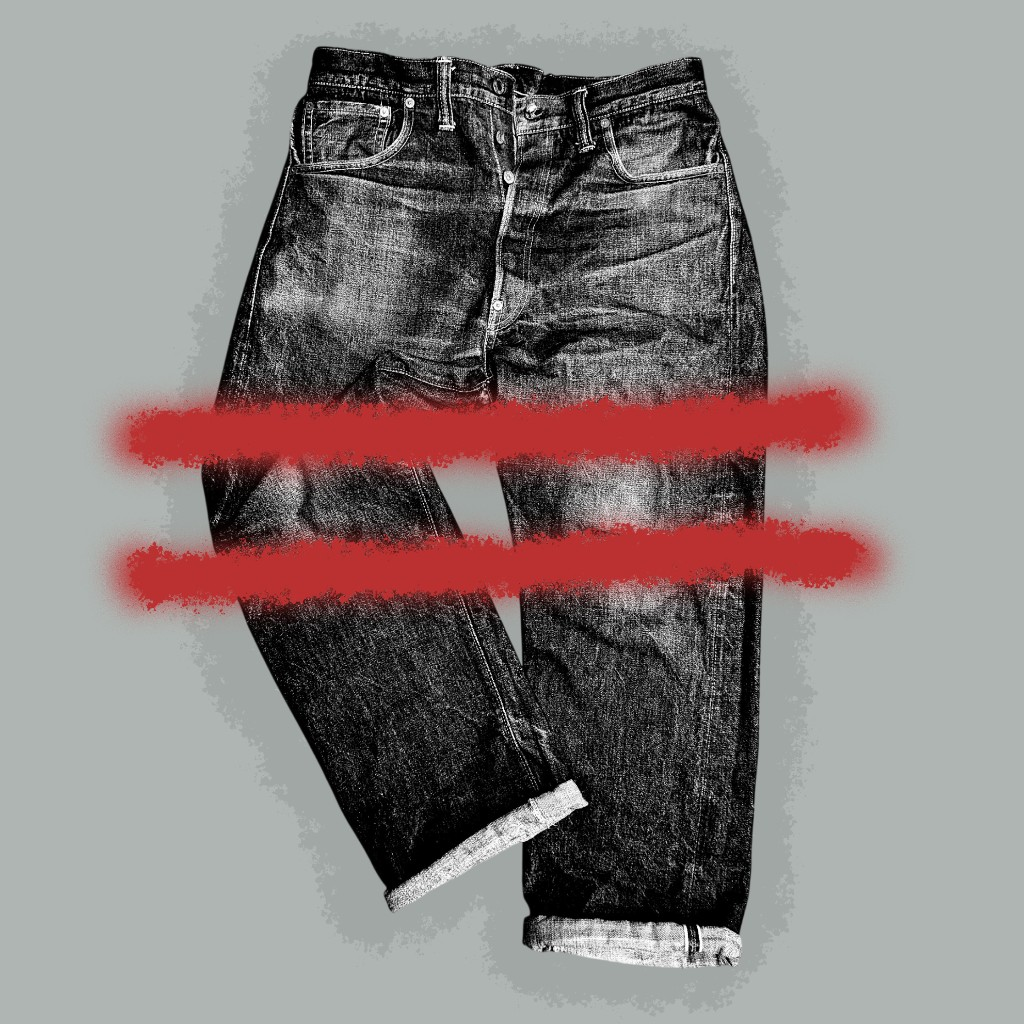
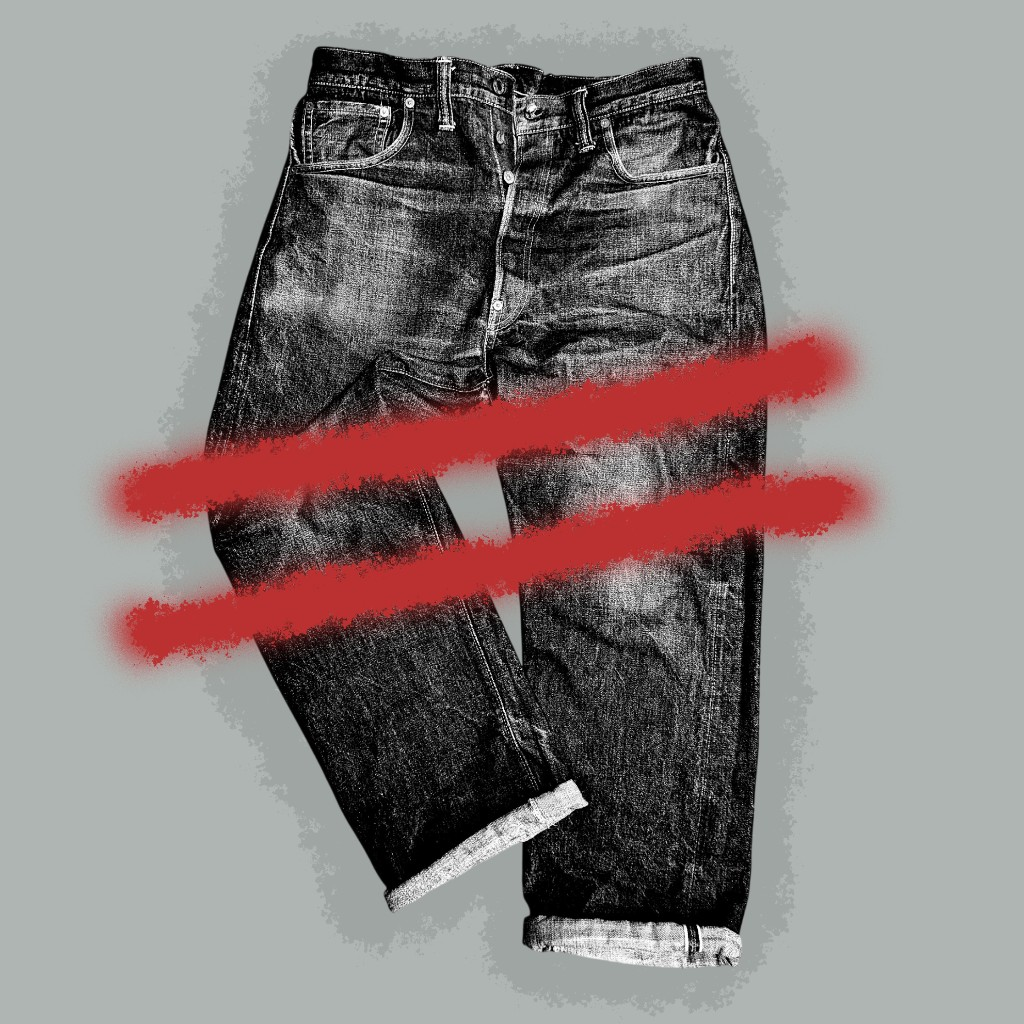
update denim

Changed region(s): [[0.0938, 0.3125, 0.875, 0.6562]]

diff --git a/app/thedoubleslash/data.ts b/app/thedoubleslash/data.ts
@@ -80,14 +80,14 @@ export const doubleslashV2Works: DoubleSlashV2Work[] = [
     id: "denim",
     title: "The Double Slash — WWII Denim",
     year: "2026",
-    mainImage: "/images/doubleslash-v2/denim/denim-01.png",
+    mainImage: "/images/doubleslash-v2/denim/denim-02.png",
     variations: [
+      "/images/doubleslash-v2/denim/denim-02.png",
       "/images/doubleslash-v2/denim/denim-01.png",
       "/images/doubleslash-v2/denim/denim-06.png",
       "/images/doubleslash-v2/denim/denim-04.png",
       "/images/doubleslash-v2/denim/denim-03.png",
       "/images/doubleslash-v2/denim/denim-05.png",
-      "/images/doubleslash-v2/denim/denim-02.png",
     ],
     statement: {
       ja: [
@@ -129,7 +129,7 @@ export const doubleslashComparisons: DoubleSlashComparison[] = [
     motif: "WWII Denim",
     v1Image: "/images/doubleslash-denim/Denim1.png",
     v1Label: "WWII Denim / V1",
-    v2Image: "/images/doubleslash-v2/denim/denim-01.png",
+    v2Image: "/images/doubleslash-v2/denim/denim-02.png",
     v2Label: "WWII Denim / V2",
   },
 ];

diff --git a/components/home/landing-page.tsx b/components/home/landing-page.tsx
@@ -148,7 +148,7 @@ export function LandingPage() {
             <Tile
               href="/thedoubleslash#v2-denim"
               label="The Double Slash"
-              src="/images/doubleslash-v2/denim/denim-01.png"
+              src="/images/doubleslash-v2/denim/denim-02.png"
               className="col-span-6 md:col-span-5 md:col-start-8 md:row-start-1 min-h-[160px] md:min-h-[190px]"
               sizes="42vw"
               variant="light"
